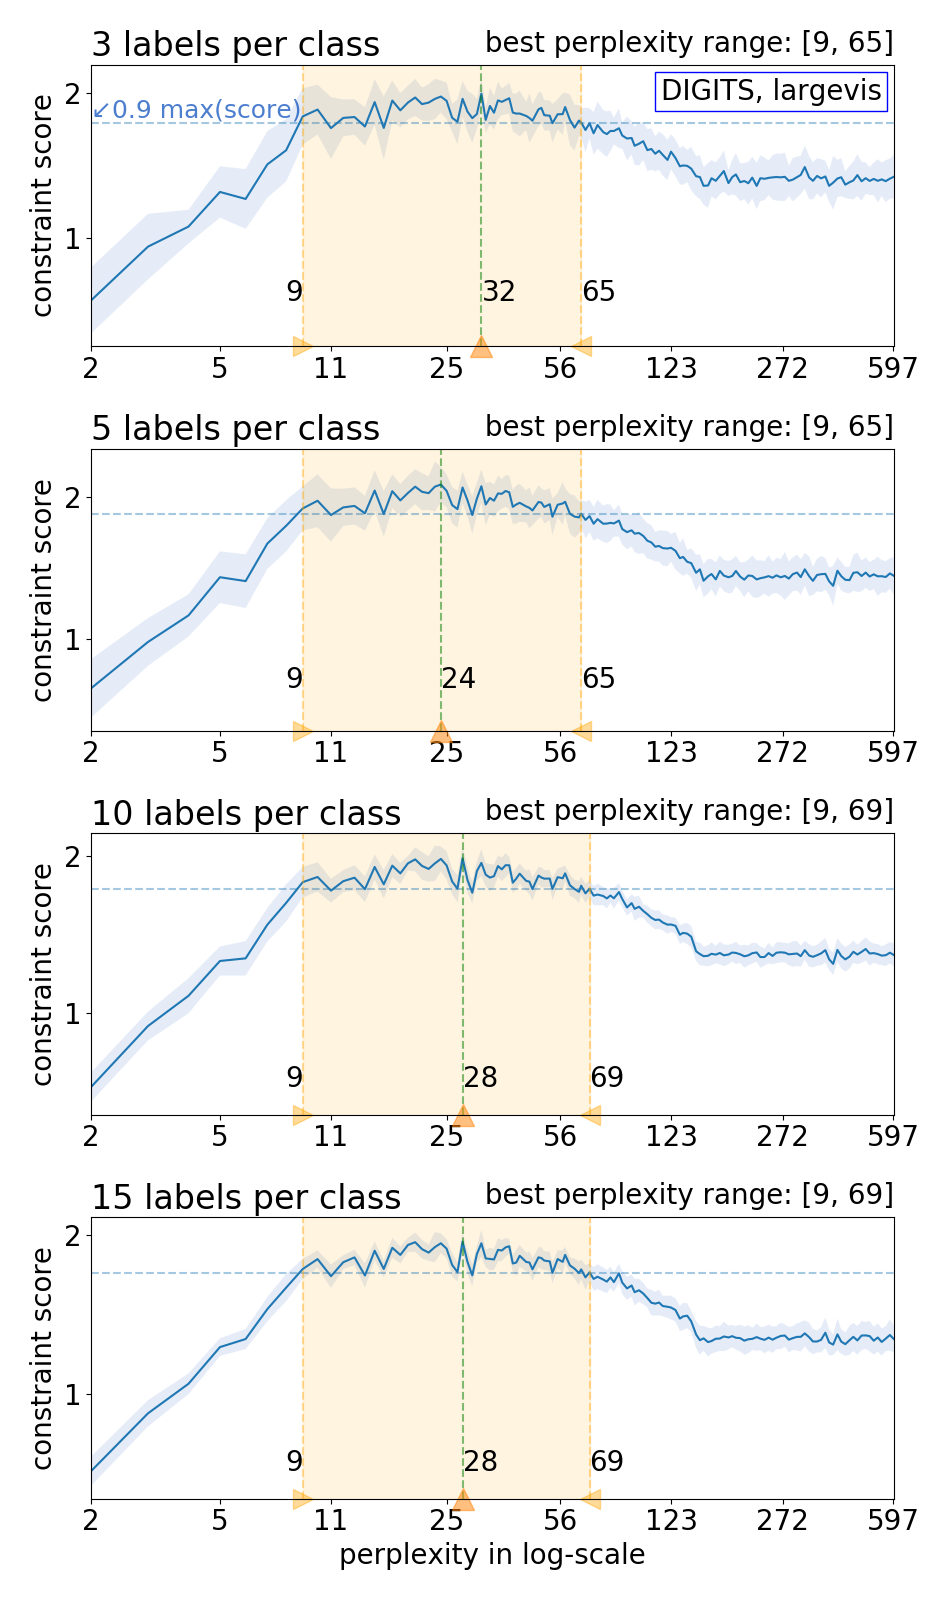
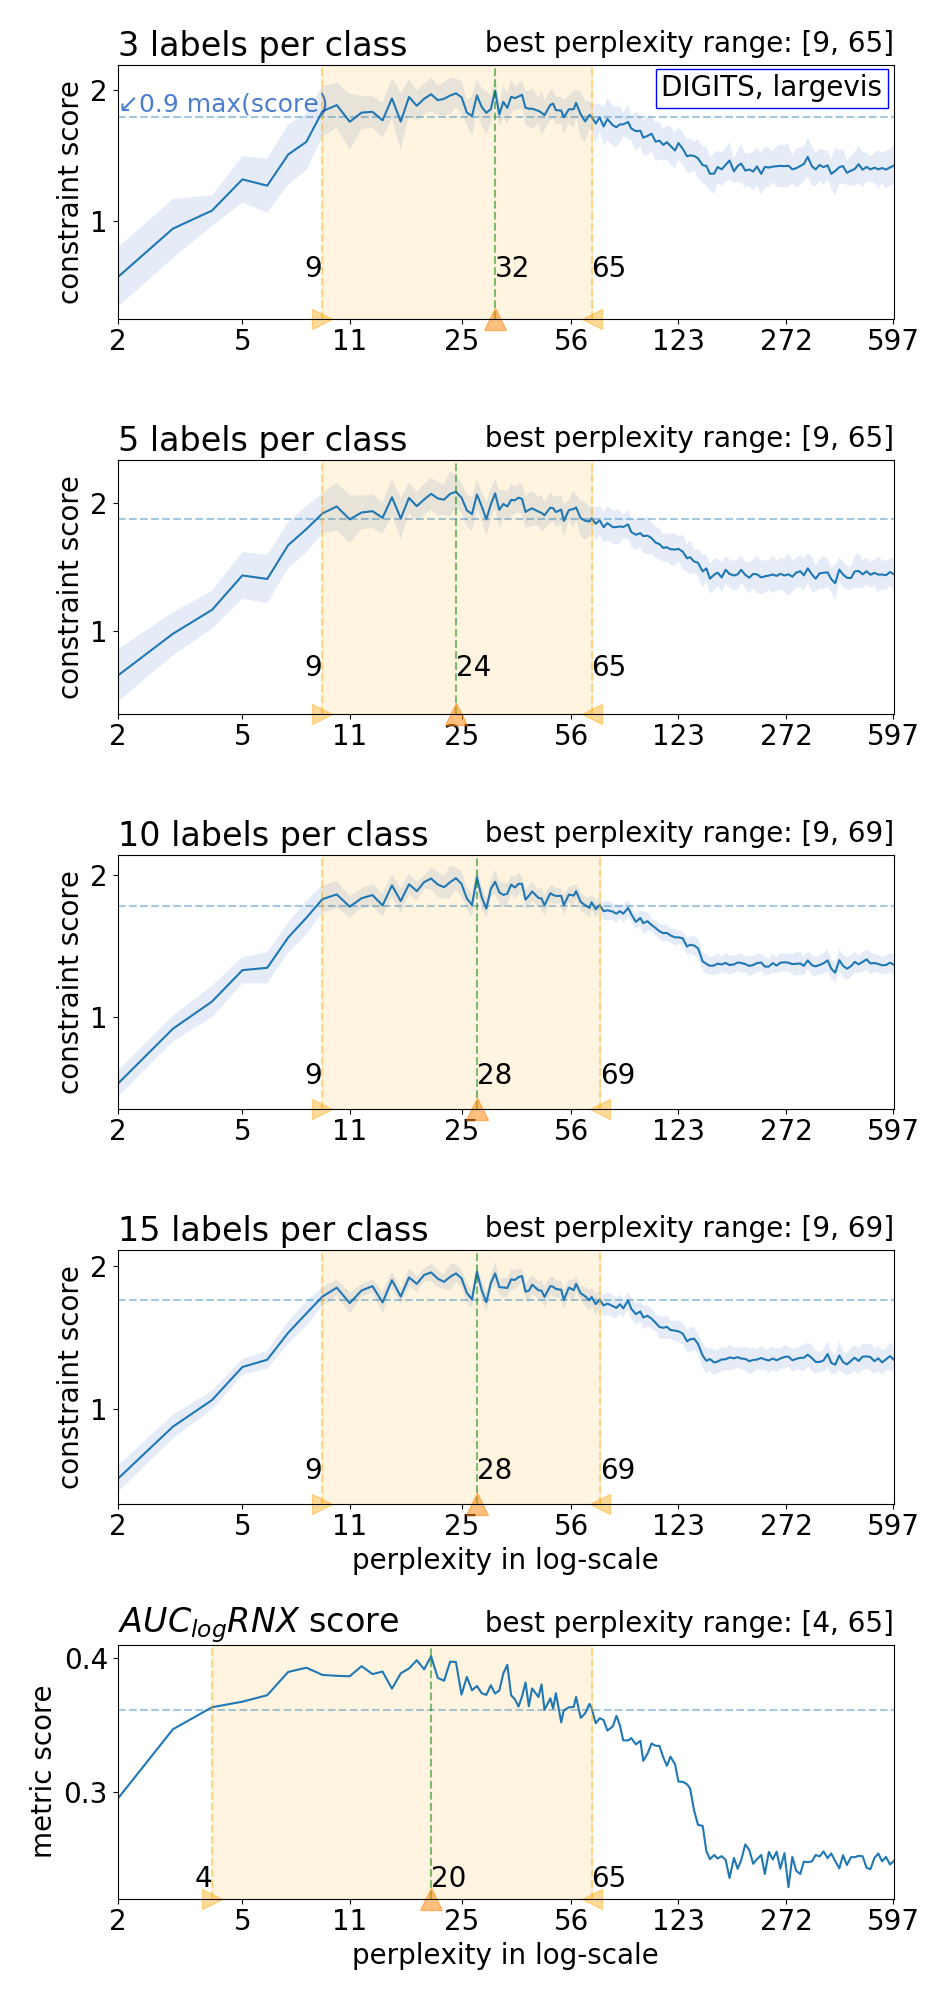
update plots compare qij score with auc_rnx

diff --git a/code/plot_score.py b/code/plot_score.py
@@ -57,30 +57,65 @@ def _plot_best_range(ax, param_min, param_max, param_name="", text_y_pos=0.0):
             s=f" best {param_name} range: [{param_min}, {param_max}]")
 
 
-def plot_scores_with_std(dataset_name, method_name, score_name, list_n_labels_values,
-                         degrees_of_freedom=1.0, param_name="param", score_dir="", plot_dir=""):
-    # prepare score data
-    with open(f"{score_dir}/dof{degrees_of_freedom}_all.txt", "r") as in_file:
-        json_data = json.load(in_file)
+def _plot_score_with_best_param_and_range(ax, param_name, list_params, pivot,
+                                          param_best, param_min, param_max,
+                                          score_mean, score_sigma=None, text_y_pos=0):
+    # horizontal line to indicate top 96% highest score
+    ax.axhline(pivot, linestyle="--", alpha=0.4)
 
-    list_params = list(map(int, json_data['list_params']))
-    list_params = np.array(list_params)
-    all_scores = json_data['all_scores']
+    # main line of mean_score with variance
+    _plot_line_with_variance(ax, list_params, score_mean, score_sigma=score_sigma)
+
+    # plot bestparam in the same customized xaxis
+    # but do not show text if the best param is overlapped with the best range
+    if param_best == param_min or param_best == param_max:
+        text_align = None
+    else:
+        text_align = ("right" if (param_best - param_min) > (param_max - param_best)
+                      else "left")
+    _plot_best_param(ax, param_best, text_y_pos, text_align)
+
+    # plot also the best param range (the top 96% scores)
+    _plot_best_range(ax, param_min, param_max, param_name, text_y_pos)
+
+
+def plot_scores(dataset_name, method_name, score_name, list_n_labels_values,
+                param_name="", score_dir="", plot_dir="", compare_with_rnx=True):
+    # prepare qij score data
+    with open(f"{score_dir}/dof1.0_all.txt", "r") as in_file:
+        qij_score_data = json.load(in_file)
+        list_params = list(map(int, qij_score_data['list_params']))
+        all_scores = qij_score_data['all_scores']
+
+    # verify if the AUC_log_RNX score is valid
+    if compare_with_rnx:
+        with open(f"{score_dir}/../metrics/metrics.txt", "r") as in_file:
+            metric_data = json.load(in_file)
+        assert list_params == list(map(int, metric_data['list_params']))       
+        rnx_score = metric_data["auc_rnx"]
 
     # prepare threshold value to filter the top highest scores
     threshold = {'tsne': 0.96, 'umap': 0.96, 'largevis': 0.9}[method_name]
 
     # prepare subplots
-    n_rows = len(list_n_labels_values)
+    n_rows = len(list_n_labels_values) + (1 if compare_with_rnx else 0)
     _, axes = plt.subplots(n_rows, 1, figsize=(9.5, 4*n_rows))
 
-    for ax, n_labels_each_class in zip(np.array(axes).ravel(), sorted(list_n_labels_values)):
-        first_plot = n_labels_each_class == min(list_n_labels_values)
-        last_plot = n_labels_each_class == max(list_n_labels_values)
+    for ax, n_labels_each_class in zip(np.array(axes).ravel(),
+                                       sorted(list_n_labels_values) + ["rnx"]):
+        if n_labels_each_class == "rnx":  # AUC_log_RNX score, not the qij score
+            first_plot, last_plot = False, True
+            title, ylabel = "$AUC_{log}RNX$ score", "metric score"
+            score_mean, score_sigma = np.array(rnx_score), None
+        else:
+            first_plot = n_labels_each_class == min(list_n_labels_values)
+            last_plot = n_labels_each_class == max(list_n_labels_values)
+            title, ylabel = f"{n_labels_each_class} labels per class", "constraint score"
+            scores = all_scores[str(n_labels_each_class)]
+            score_mean, score_sigma = np.mean(scores, axis=0), np.std(scores, axis=0)
 
-        ax.set_title(f"{n_labels_each_class} labels per class", loc="left")
-        scores = all_scores[str(n_labels_each_class)]
-        score_mean, score_sigma = np.mean(scores, axis=0), np.std(scores, axis=0)
+        ax.set_title(title, loc="left")
+        ax.set_ylabel(ylabel)
         text_y_pos = min(score_mean)  # y-position to show text, e.g., value of best param
 
         # determine best param range and best param value
@@ -90,28 +125,13 @@ def plot_scores_with_std(dataset_name, method_name, score_name, list_n_labels_va
         param_max = list_params[best_indices.max()]
         param_best = list_params[np.argmax(score_mean)]
 
-        # horizontal line to indicate top 96% highest score
-        ax.axhline(pivot, linestyle="--", alpha=0.4)
-
-        # main line of mean_score with variance
-        _plot_line_with_variance(ax, list_params, score_mean, score_sigma=score_sigma)
-
-        # plot bestparam in the same customized xaxis
-        # but do not show text if the best param is overlapped with the best range
-        if param_best == param_min or param_best == param_max:
-            text_align = None
-        else:
-            text_align = ("right" if (param_best - param_min) > (param_max - param_best)
-                          else "left")
-        _plot_best_param(ax, param_best, text_y_pos, text_align)
-
-        # plot also the best param range (the top 96% scores)
-        _plot_best_range(ax, param_min, param_max, param_name, text_y_pos)
+        _plot_score_with_best_param_and_range(
+            ax, param_name, list_params, pivot, param_best, param_min, param_max,
+            score_mean=score_mean, score_sigma=score_sigma, text_y_pos=text_y_pos)
 
         # show label for params only for the last plot
         if last_plot:
             ax.set_xlabel(f"{param_name} in log-scale")
-        ax.set_ylabel('constraint score')
 
         # additional annotation for first plot
         if first_plot:
@@ -124,21 +144,19 @@ def plot_scores_with_std(dataset_name, method_name, score_name, list_n_labels_va
                     bbox=dict(edgecolor='b', facecolor='w'))
 
     plt.tight_layout()
-    plt.savefig(f"{plot_dir}/scores_with_std_dof{degrees_of_freedom}.png")
+    plt.savefig(f"{plot_dir}/scores.png")
     plt.close()
 
 
-def plot_quality_metrics(dataset_name, method_name="", param_name="",
-                         score_dir="", plot_dir=""):
+def plot_quality_metrics(dataset_name, method_name, param_name="", score_dir="", plot_dir=""):
     with open(f"{score_dir}/metrics.txt", "r") as in_file:
-        json_data = json.load(in_file)
-
-    list_params = list(map(int, json_data['list_params']))
+        metrics_data = json.load(in_file)
+        list_params = list(map(int, metrics_data['list_params']))
 
     for metric_name, metric_display_name in DRMetric.metrics_names.items():
         _, ax = plt.subplots(1, 1, figsize=(9, 4.5))
         _plot_line_with_variance(ax, list_params, score_sigma=None,
-                                 score_mean=json_data[metric_name])
+                                 score_mean=metrics_data[metric_name])
         ax.set_title(metric_display_name)
         ax.text(x=0.985, y=0.875, s=f"{dataset_name}, {method_name}",
                 transform=ax.transAxes, ha="right",
@@ -149,4 +167,5 @@ def plot_quality_metrics(dataset_name, method_name="", param_name="",
 
         plt.tight_layout()
         plt.savefig(f"{plot_dir}/{metric_name}.png")
-        plt.close()
+        plt.close()    
+

diff --git a/code/run_score.py b/code/run_score.py
@@ -8,8 +8,7 @@ import matplotlib.pyplot as plt
 from tqdm import tqdm
 
 import utils
-from plot_score import plot_scores_with_std
-from plot_score import plot_quality_metrics
+from plot_score import plot_scores, plot_quality_metrics
 from common.dataset import dataset
 
 
@@ -177,16 +176,13 @@ if __name__ == "__main__":
         plt.rcParams.update({'font.size': 20})
 
         if score_name == "qij":
-            plot_scores_with_std(dataset_name, method_name, score_name,
-                                 list_n_labels_values,
-                                 param_name=default_param_name,
-                                 degrees_of_freedom=args.degrees_of_freedom,
-                                 score_dir=score_dir, plot_dir=plot_dir)
+            plot_scores(dataset_name, method_name, score_name, list_n_labels_values,
+                        param_name=default_param_name, score_dir=score_dir, plot_dir=plot_dir,
+                        compare_with_rnx=True)
         elif score_name == "metrics":
             plot_quality_metrics(dataset_name, method_name, param_name=default_param_name,
                                  score_dir=score_dir, plot_dir=plot_dir)
         else:
             raise ValueError(f"Invalid score name {score_name}, should be ['qij', 'metrics']")
-
 
     # TODO : change --user_log_scale to --disable_log_scale
